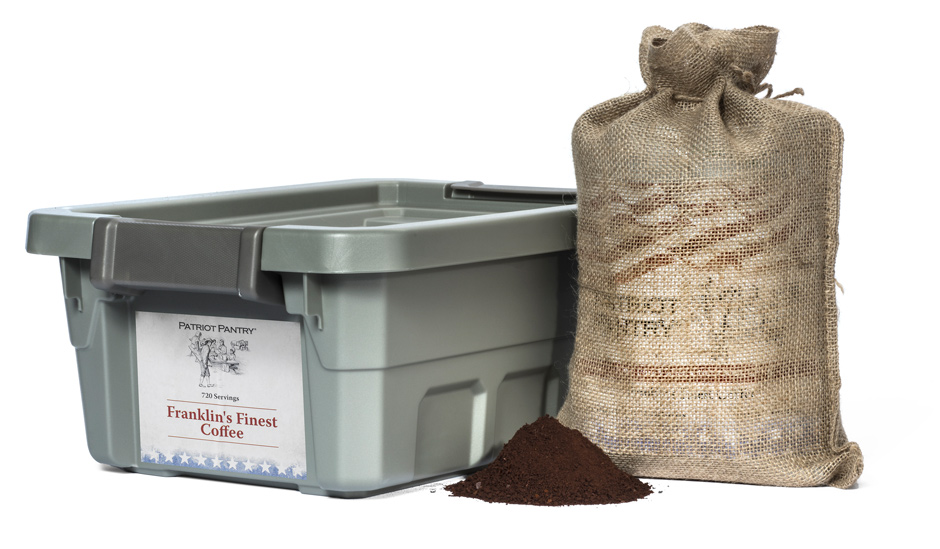
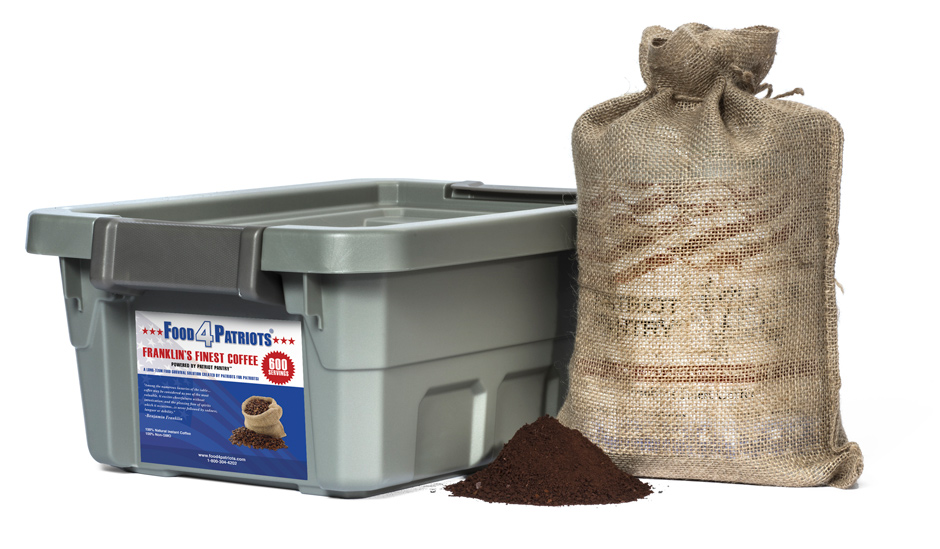
FFP-277 TYP Coffee Copy & Image Update

Changed region(s): [[0.1234, 0.5574, 0.3394, 0.898]]

diff --git a/templates/products/F4P-coffee600-pid182.php b/templates/products/F4P-coffee600-pid182.php
@@ -169,14 +169,14 @@ $offerName = $_SESSION["firstName"];
 			<p><?php echo $customerDataObj->firstName;?>,
 				you’ve taken the first step in ensuring the safety and well-being of your loved ones in times of crisis with your Food4Patriots order.</p>
 			<p>But there’s one thing missing that you’re not going to want to be without if a crisis hits…</p>
-			<p><strong>Coffee</strong></p>
+			<p><strong>Coffee!</strong></p>
 			<p>If a food shortage or natural disaster does occur, <strong>coffee might just save your life</strong>, especially if you&rsquo;re the only one who has any. It&rsquo;s the perfect thing to use for barter or trade for other things you might need in an emergency. </p>
-			<p><strong>Click &ldquo;Yes, Add This to My Order&rdquo; in the next 10 minutes</strong> and we&rsquo;ll add the Food4Patriots Coffee Kit to your order for just one additional payment of <strong>$97</strong>.</p>
+			<p><strong>Click &ldquo;Add To Order&rdquo; button in the next 10 minutes</strong> and we&rsquo;ll add the Food4Patriots Coffee Kit to your order for just one additional payment of <strong>$97</strong>.</p>
           <p><strong><u>This is the first-ever emergency survival coffee with a true 25-year shelf life!</u></strong></p>
           <p>You&rsquo;ll be getting 600 full servings of delicious coffee, enough for just about 2 cups of coffee per day for an entire year! This is 100% pure Colombian coffee that&rsquo;s also 100% Non-GMO and 100% Arabica, straight from the tree to the freeze-dryer and into your cup. Simply add hot water and you&rsquo;ll enjoy a delicious cup of Joe!</p>
           <p>It&rsquo;s packed in airtight Mylar pouches, <em>guaranteed</em> to last 25 years on the shelf. The pouches come in a handy burlap sack, nestled inside a covert and watertight plastic storage tote for easy stacking. </p>
 <p>This offer is exclusive ONLY to Food4Patriots customers and it’s likely this will be the <span class="bold red">only time you see it at this special price.</span></p>
-			<p>Believe it or not, coffee can be an amazing equalizer in a crisis… it provides a familiar routine and a sense of calm and focus, even when everything else could be swirling in chaos. Get your supply now, <strong>Click the &ldquo;Yes, Add This to My Order&rdquo;</strong> button below now:</p>
+			<p>Believe it or not, coffee can be an amazing equalizer in a crisis… it provides a familiar routine and a sense of calm and focus, even when everything else could be swirling in chaos. Get your supply now, <span class="bold red"><strong>Click the &ldquo;Add To Order&rdquo;</strong></span> button below now:</p>
 <p class="small"><em>An additional charge of $97 per kit will be added to your credit card. Remember, all orders are backed by our double-your-money-back guarantee and are 100% refundable.</em></p>
 			<form action="/checkout/process.php" method="post" accept-charset="utf-8" id="optin-form">
 				<input type="hidden" name="quantity" id="quantity" value="1">
